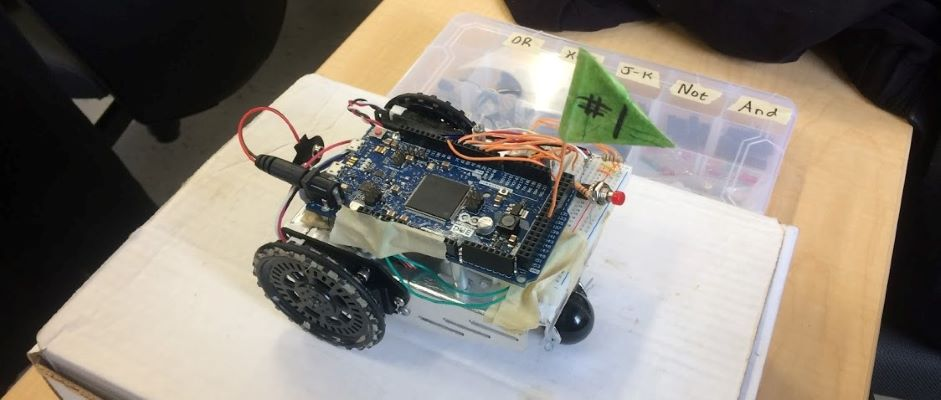
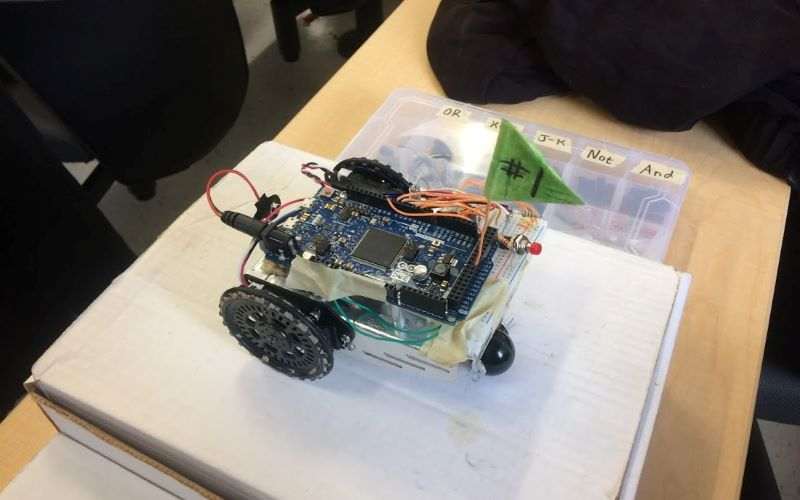
Fix text phrasing, modify pictures, fix footer bug
Streamline some text phrasing, change the banner picture slightly,
and fix a bug that causes the footer to show side-by-side with the
contact bar at intermediately small screen display widths.

diff --git a/index.html b/index.html
@@ -69,7 +69,7 @@
                     <p class="lead">
                         <ul>
                             <li class="lead">2018 - Bachelors in Mechanical Engineering - GPA 4.00</li>
-                            <li class="lead">2019 - Masters in Mechanical Engineering - GPA 4.00</li>
+                            <li class="lead">2019 - Masters in Mechanical Engineering  - GPA 4.00</li>
                             <li class="lead">2020 - Masters in Business Administration - GPA 3.98</li>
                         </ul>
                     </p>
@@ -88,7 +88,7 @@
                     <h2 class="display-5">Work Experience</h2>
                     <p class="lead">
                         Since 2015 I have worked in engineering and supervisory roles at Ford Motor Company.
-                        I currently work as a Joining Engineer at the Ford Kentucky Truck Plant in Louisville, KY.
+                        I currently work as a Joining Engineering Specialist at the Ford Kentucky Truck Plant in Louisville, KY.
                     </p>
                 </div>
             </div>
@@ -111,7 +111,7 @@
         </div>
 
         <div class="d-md-flex flex-md-equal w-100 my-3 pl-md-3">
-            <div id="proj_pic" class="imagediv bg-dark mr-md-3 pt-3 px-3 px-md-5 text-center text-white overflow-hidden">
+            <div id="proj_pic" class="imagediv mr-md-3 pt-3 px-3 px-md-5 text-center text-white overflow-hidden">
             </div>
             <div class="bg-grey mr-md-3 pt-3 px-3 px-md-5 text-left overflow-hidden">
                 <div class="my-3 p-3">
@@ -122,10 +122,10 @@
                     <ul>
                         <li class="lead">
                             A label generator application currently
-                            used to label all incoming inventory at the Ford Kentucky Truck Plant.
+                            used to track incoming inventory at the Ford Kentucky Truck Plant.
                         </li>
-                        <li class="lead">A capture-the-flag robot I made as an Engineering Masters project</li>
-                        <li class="lead">A stock-picking web scraper I wrote during my MBA program</li>
+                        <li class="lead">A self-guided robot that won an Engineering Masters competition</li>
+                        <li class="lead">A financial-information web scraper made for an MBA project</li>
                     </ul>
                 </div>
             </div>
@@ -137,7 +137,7 @@
                     <h2 class="display-5">Other Interests</h2>
 
                     <p class="lead">
-                        In my spare time, I am training for my black belt test in
+                        In my spare time, I am training for the black belt exam in
                         Niseido Jujitsu, a defensive martial art.
                     </p>
                     <p class="lead">
@@ -183,7 +183,7 @@
                     <p class="lead">
                         I graduated three times:
                     </p>
-                    <p class="lead">
+                    <p class="lead text-justify">
                         <ul>
                             <li class="lead">2018 - Bachelors in Mechanical Engineering - GPA 4.00</li>
                             <li class="lead">2019 - Masters in Mechanical Engineering - GPA 4.00</li>
@@ -202,7 +202,7 @@
                     <h2 class="display-5">Work Experience</h2>
                     <p class="lead">
                         Since 2015 I have worked in engineering and supervisory roles at Ford Motor Company.
-                        I currently work as a Joining Engineer at the Ford Kentucky Truck Plant in Louisville, KY.
+                        I currently work as a Joining Engineering Specialist at the Ford Kentucky Truck Plant in Louisville, KY.
                     </p>
                 </div>
             </div>
@@ -224,7 +224,7 @@
         </div>
 
         <div class="d-md-flex flex-md-equal w-100 my-3 pl-md-3">
-            <div id="proj_pic" class="imagediv bg-dark mr-md-3 pt-3 px-3 px-md-5 text-center text-white overflow-hidden">
+            <div id="proj_pic" class="imagediv mr-md-3 pt-3 px-3 px-md-5 text-center text-white overflow-hidden">
             </div>
             <div class="bg-grey mr-md-3 pt-3 px-3 px-md-5 text-left overflow-hidden">
                 <div class="my-3 p-3">
@@ -235,10 +235,10 @@
                     <ul>
                         <li class="lead">
                             A label generator application currently
-                            used to label all incoming inventory at the Ford Kentucky Truck Plant.
+                            used to track incoming inventory at the Ford Kentucky Truck Plant.
                         </li>
-                        <li class="lead">A capture-the-flag robot I made as an Engineering Masters project</li>
-                        <li class="lead">A stock-picking web scraper I wrote during my MBA program</li>
+                        <li class="lead">A self-guided robot that won an Engineering Masters competition</li>
+                        <li class="lead">A financial-information web scraper made for an MBA project</li>
                     </ul>
                 </div>
             </div>
@@ -252,7 +252,7 @@
                     <h2 class="display-5">Other Interests</h2>
 
                     <p class="lead">
-                        In my spare time, I am training for my black belt test in
+                        In my spare time, I am training for the black belt exam in
                         Niseido Jujitsu, a defensive martial art.
                     </p>
                     <p class="lead">
@@ -265,13 +265,16 @@
 
     </div>
 
-    <div class="d-md-flex flex-md-equal w-100 my-3">
+    <div class="flex-md-equal w-100 my-3">
         <div id="get_in_touch" class="pt-3 px-3 px-md-5 text-center overflow-hidden">
-            <p class="lead"><b>Want to learn more?</b></p>
-            <h3>I would love to hear from you.</h3>
-            <div class="column-fluid text-center overflow-hidden">
-                <a class="social-link" href="http://www.linkedin.com/in/joshua-kotter"><i class="fab fa-linkedin fa-3x fa-fw"></i></a>
-                <a class="social-link" href="mailTo:joshua.kotter@gmail.com"><i class="fas fa-envelope fa-3x fa-fw"></i></a>
+            <div id="get_in_touch" class="pt-3 px-3 px-md-5 text-center overflow-hidden">
+                <p class="lead"><b>Want to learn more?</b></p>
+                <h3>I would love to hear from you.</h3>
+                <div class="column-fluid text-center overflow-hidden">
+                    <a class="social-link" target="_blank" href="http://www.linkedin.com/in/joshua-kotter"><i class="fab fa-linkedin fa-3x fa-fw"></i></a>
+                    <a class="social-link" href="mailTo:joshua.kotter@gmail.com"><i class="fas fa-envelope fa-3x fa-fw"></i></a>
+                    <a class="social-link" target="_blank" href="https://github.com/jkotter1"><i class="fab fa-github-square fa-3x fa-fw"></i></a>
+                </div>
             </div>
         </div>
     </div>
